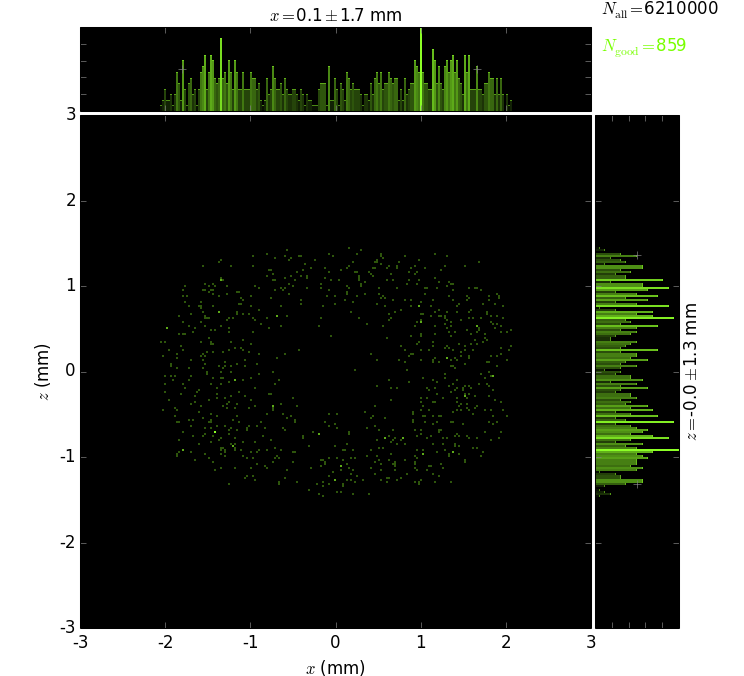
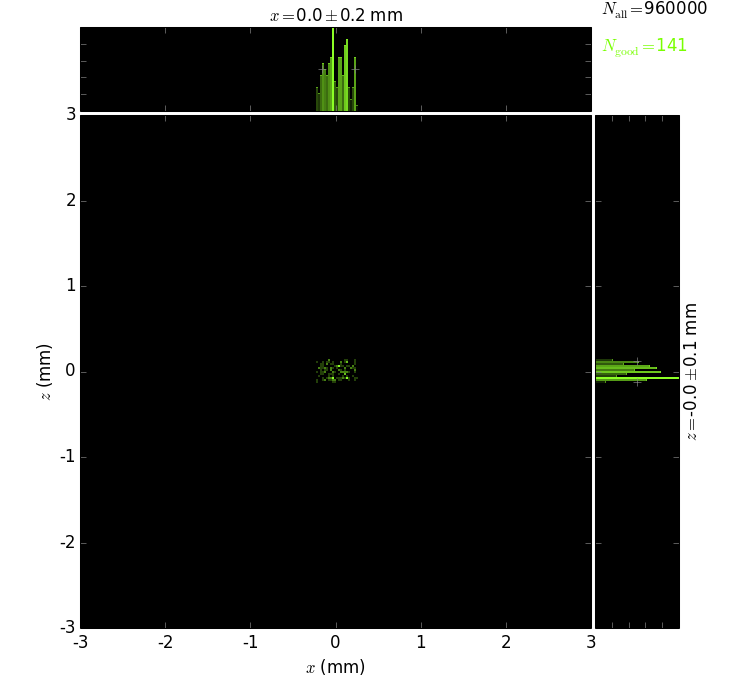
Moving to xrt099

diff --git a/simplfiedPolyCapillary.py b/simplfiedPolyCapillary.py
@@ -176,7 +176,7 @@ def build_beamline(nrays=1e4):
     slitDx = 0.2
     slitDz = 0.1                                     
     beamLine.slit = ra.RectangularAperture(
-        beamLine, 'squareSlit', 0, (f + 2.2*rSample), ('left', 'right', 'bottom', 'top'),
+        beamLine, 'squareSlit', [0, f + 2.2*rSample ,0], ('left', 'right', 'bottom', 'top'),
         [-slitDx, slitDx, -slitDz, slitDz])
         
     # Insert screen after slit
@@ -225,7 +225,7 @@ def run_process(beamLine, shineOnly1stSource=False):
         outDict['myExposedScreen{0:02d}'.format(it)] = beamFsms[it]
 
     # Push photons through the slit
-    beamPastSlit = beamLine.slit.propagate(beamCapillaryGlobalTotal)
+    beamPastSlit, dupa = beamLine.slit.propagate(beamCapillaryGlobalTotal,needNewGlobal=True)
     
     # Observe what's behind
     pastSlitScreen = beamLine.sltScreen.expose(beamPastSlit)
